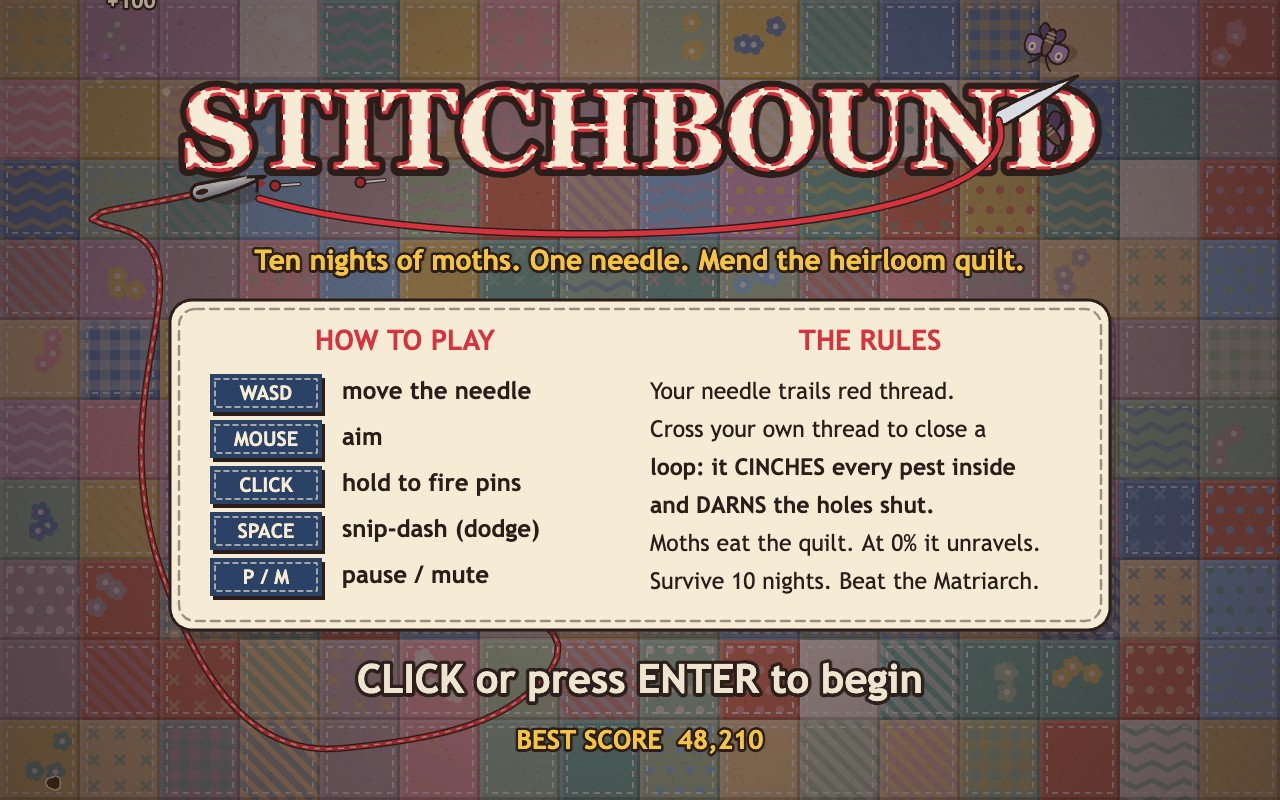
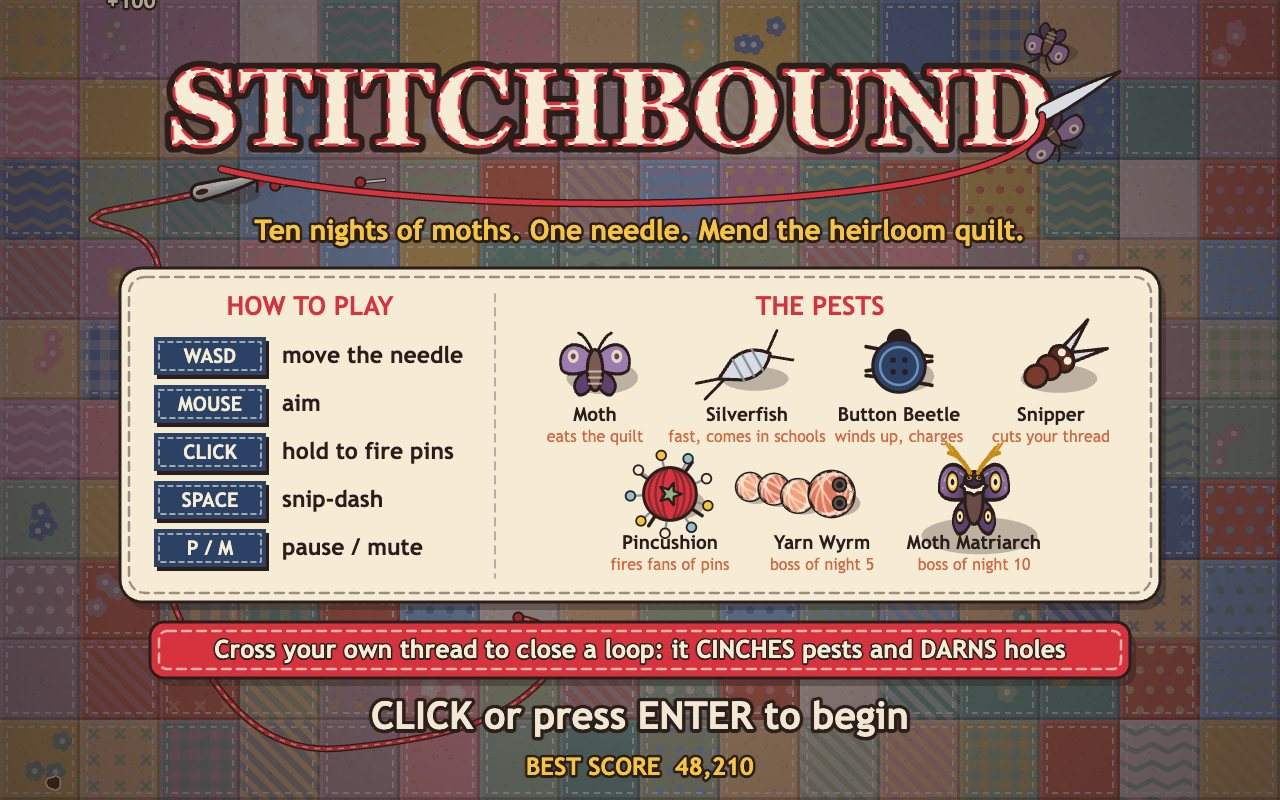
Title screen bestiary of all seven creatures and the loop rule ribbon

diff --git a/game/src/screens.js b/game/src/screens.js
@@ -2,7 +2,7 @@
 // and the results card that ends every run, win or lose, with its numbers and a restart.
 import { FONT, PALETTE, VIEW, WAVE_COUNT } from './config.js';
 import { easeOutBack } from './geometry.js';
-import { drawUpgradeIcon } from './sprites.js';
+import { drawBeetle, drawMatriarch, drawMoth, drawSilverfish, drawSnipper, drawSpitter, drawUpgradeIcon, drawYarnBall } from './sprites.js';
 import { drawFeltPanel, drawText, formatNumber, formatTime } from './ui.js';
 import { upgradeById } from './upgrades.js';
 
@@ -16,7 +16,7 @@ function drawLogo(ctx, x, y, size, time) {
   drawText(ctx, 'STITCHBOUND', x, y + bob, { size, color: PALETTE.cream, font: FONT.display, outline: size / 7, stitch: PALETTE.thread });
   // A needle threads through the title, its red thread looping under the letters.
   ctx.save();
-  ctx.translate(x + size * 3.55, y - size * 0.35 + bob);
+  ctx.translate(x + size * 4.35, y - size * 0.2 + bob);
   ctx.rotate(-0.5);
   ctx.beginPath();
   ctx.moveTo(46, 0);
@@ -34,8 +34,8 @@ function drawLogo(ctx, x, y, size, time) {
   ctx.lineCap = 'round';
   const thread = () => {
     ctx.beginPath();
-    ctx.moveTo(x + size * 3.2, y - size * 0.15 + bob);
-    ctx.bezierCurveTo(x + size * 3.6, y + size * 0.9, x - size * 1.5, y + size * 1.1, x - size * 3.4, y + size * 0.55 + bob);
+    ctx.moveTo(x + size * 4.0, y + bob);
+    ctx.bezierCurveTo(x + size * 4.2, y + size * 0.9, x - size * 1.5, y + size * 1.0, x - size * 3.6, y + size * 0.5 + bob);
   };
   thread();
   ctx.stroke();
@@ -47,43 +47,79 @@ function drawLogo(ctx, x, y, size, time) {
 
 export function drawTitle(ctx, best, time) {
   dim(ctx, 0.35);
-  drawLogo(ctx, VIEW.width / 2, 140, 112, time);
-  drawText(ctx, 'Ten nights of moths. One needle. Mend the heirloom quilt.', VIEW.width / 2, 262, { size: 28, color: PALETTE.gold, outline: 6 });
+  drawLogo(ctx, VIEW.width / 2 - 30, 118, 108, time);
+  drawText(ctx, 'Ten nights of moths. One needle. Mend the heirloom quilt.', VIEW.width / 2, 232, { size: 28, color: PALETTE.gold, outline: 6 });
 
-  const px = 170;
-  const py = 300;
-  drawFeltPanel(ctx, px, py, 940, 330, PALETTE.cream, 'rgba(42,29,26,0.45)', 22);
-  drawText(ctx, 'HOW TO PLAY', px + 235, py + 42, { size: 28, color: PALETTE.thread, outline: 0 });
-  drawText(ctx, 'THE RULES', px + 700, py + 42, { size: 28, color: PALETTE.thread, outline: 0 });
+  const px = 120;
+  const py = 268;
+  drawFeltPanel(ctx, px, py, 1040, 334, PALETTE.cream, 'rgba(42,29,26,0.45)', 22);
+  drawText(ctx, 'HOW TO PLAY', px + 190, py + 40, { size: 26, color: PALETTE.thread, outline: 0 });
+  drawText(ctx, 'THE PESTS', px + 700, py + 40, { size: 26, color: PALETTE.thread, outline: 0 });
   const controls = [
     ['WASD', 'move the needle'],
     ['MOUSE', 'aim'],
     ['CLICK', 'hold to fire pins'],
-    ['SPACE', 'snip-dash (dodge)'],
+    ['SPACE', 'snip-dash'],
     ['P / M', 'pause / mute'],
   ];
   controls.forEach(([key, what], i) => {
-    const y = py + 92 + i * 46;
-    drawKeyCap(ctx, px + 40, y - 18, key);
-    drawText(ctx, what, px + 172, y, { size: 24, color: PALETTE.ink, align: 'left', outline: 0, weight: 'bold' });
+    const y = py + 88 + i * 48;
+    drawKeyCap(ctx, px + 34, y - 19, key);
+    drawText(ctx, what, px + 162, y, { size: 23, color: PALETTE.ink, align: 'left', outline: 0, weight: 'bold' });
   });
-  const rules = [
-    'Your needle trails red thread.',
-    'Cross your own thread to close a',
-    'loop: it CINCHES every pest inside',
-    'and DARNS the holes shut.',
-    'Moths eat the quilt. At 0% it unravels.',
-    'Survive 10 nights. Beat the Matriarch.',
-  ];
-  rules.forEach((line, i) => {
-    drawText(ctx, line, px + 480, py + 92 + i * 38, { size: 23, color: PALETTE.ink, align: 'left', outline: 0, weight: i === 2 || i === 3 ? 'bold' : 'normal' });
-  });
+  ctx.strokeStyle = 'rgba(42,29,26,0.3)';
+  ctx.lineWidth = 2;
+  ctx.setLineDash([8, 6]);
+  ctx.beginPath();
+  ctx.moveTo(px + 375, py + 26);
+  ctx.lineTo(px + 375, py + 310);
+  ctx.stroke();
+  ctx.setLineDash([]);
+  drawBestiary(ctx, px + 400, py + 98, time);
 
-  const pulse = 0.75 + 0.25 * Math.sin(time * 5);
+  drawFeltPanel(ctx, 150, 622, 980, 56, PALETTE.thread, 'rgba(246,236,214,0.7)', 14);
+  drawText(ctx, 'Cross your own thread to close a loop: it CINCHES pests and DARNS holes', VIEW.width / 2, 651, { size: 25, color: PALETTE.cream, outline: 4 });
+
+  const pulse = 0.85 + 0.15 * Math.sin(time * 5);
   ctx.globalAlpha = pulse;
-  drawText(ctx, 'CLICK or press ENTER to begin', VIEW.width / 2, 682, { size: 40, color: PALETTE.cream, outline: 8 });
+  drawText(ctx, 'CLICK or press ENTER to begin', VIEW.width / 2, 718, { size: 38, color: PALETTE.cream, outline: 8 });
   ctx.globalAlpha = 1;
-  drawText(ctx, `BEST SCORE  ${formatNumber(best)}`, VIEW.width / 2, 742, { size: 26, color: PALETTE.gold, outline: 6 });
+  drawText(ctx, `BEST SCORE  ${formatNumber(best)}`, VIEW.width / 2, 768, { size: 24, color: PALETTE.gold, outline: 6 });
+}
+
+/** A field guide to every creature: its felt portrait, its name and what it does. */
+const BESTIARY = [
+  ['Moth', 'eats the quilt', (ctx, t) => drawMoth(ctx, critter({ r: 19, angle: -Math.PI / 2 }), t)],
+  ['Silverfish', 'fast, comes in schools', (ctx, t) => drawSilverfish(ctx, critter({ r: 15, angle: -0.5 }), t)],
+  ['Button Beetle', 'winds up, charges', (ctx, t) => drawBeetle(ctx, critter({ r: 21, angle: -Math.PI / 2 }), t)],
+  ['Snipper', 'cuts your thread', (ctx, t) => drawSnipper(ctx, critter({ r: 16, angle: -0.6 }), t)],
+  ['Pincushion', 'fires fans of pins', (ctx, t) => drawSpitter(ctx, critter({ r: 22 }), t)],
+  ['Yarn Wyrm', 'boss of night 5', (ctx, t) => {
+    for (let i = 3; i >= 1; i -= 1) drawYarnBall(ctx, critter({ x: -i * 20, y: Math.sin(i + t * 3) * 6, r: 15, index: i, radiusScale: 1 - i * 0.08 }), t, false);
+    drawYarnBall(ctx, critter({ x: 8, r: 19, angle: 0 }), t, true);
+  }],
+  ['Moth Matriarch', 'boss of night 10', (ctx, t) => drawMatriarch(ctx, critter({ r: 24, angle: 0 }), t)],
+];
+
+function critter(fields) {
+  return { x: 0, y: 0, angle: 0, seed: 1, state: 'move', flash: 0, index: 0, ...fields };
+}
+
+function drawBestiary(ctx, x, y, time) {
+  BESTIARY.forEach(([name, role, draw], i) => {
+    const row = i < 4 ? 0 : 1;
+    const col = row === 0 ? i : i - 4;
+    const cx = x + (row === 0 ? 75 + col * 152 : 150 + col * 152);
+    const cy = y + row * 128;
+    ctx.save();
+    ctx.translate(cx, cy);
+    const zoom = [1.45, 1.6, 1.25, 1.6, 1.2, 1.2, 1.1][i];
+    ctx.scale(zoom, zoom);
+    draw(ctx, time);
+    ctx.restore();
+    drawText(ctx, name, cx, cy + 50, { size: 19, color: PALETTE.ink, outline: 0 });
+    drawText(ctx, role, cx, cy + 71, { size: 16, color: PALETTE.terracotta, outline: 0, weight: 'normal' });
+  });
 }
 
 function drawKeyCap(ctx, x, y, label) {
